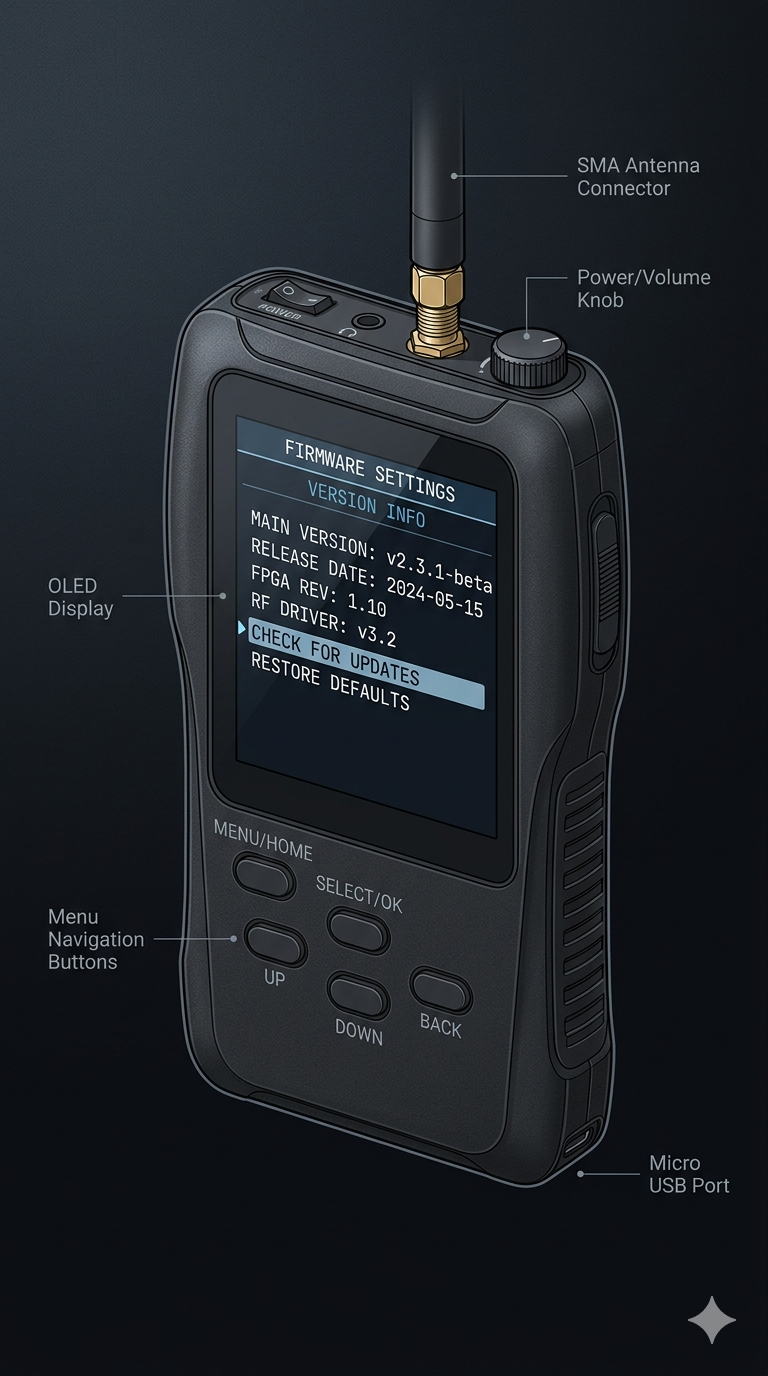
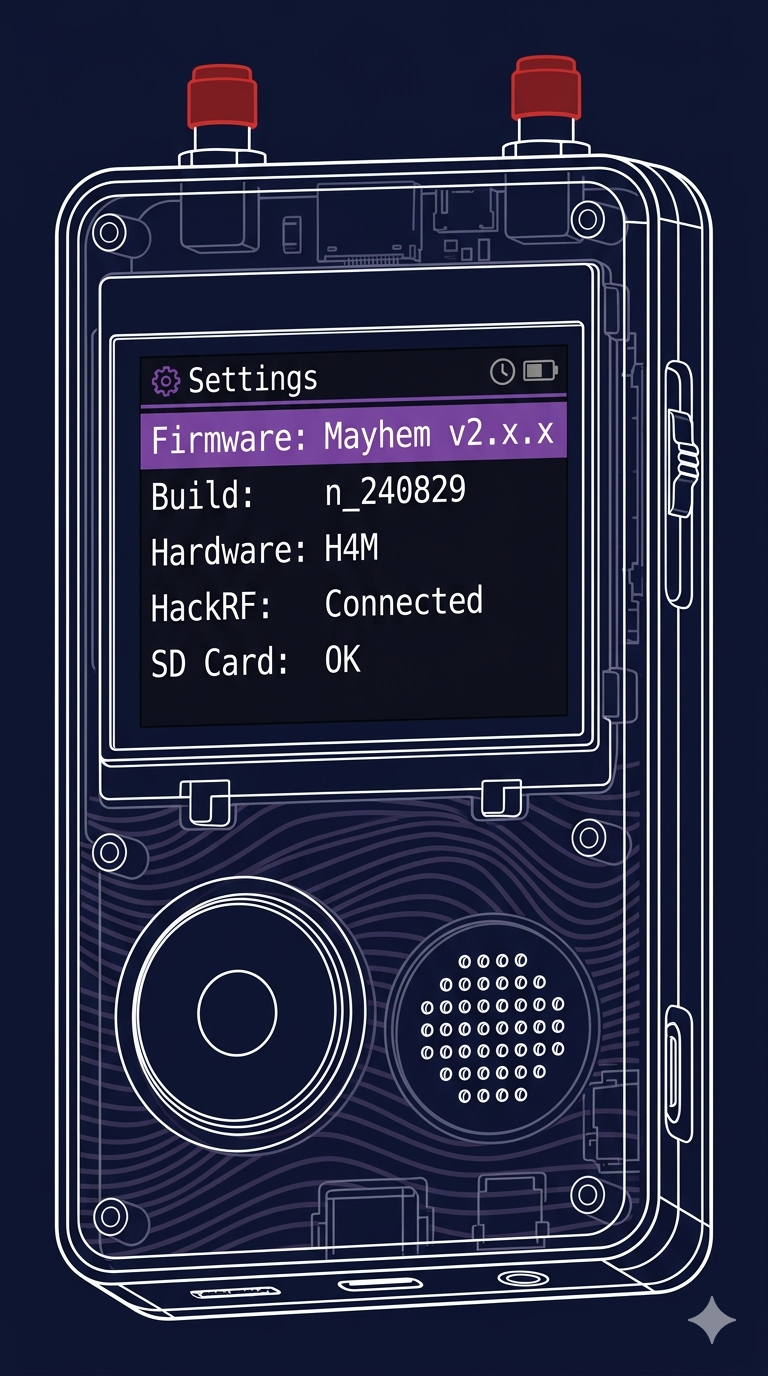
fix(h4m-manual): correct spec errors, replace wrong-hardware images, add Ch.9b visuals
- Fix screen size 2.8" -> 3.2" (lines 897, 938)
- Fix power mechanism: hold-button -> slider switch (9 occurrences)
- Fix front panel: directional buttons -> flat rotary click wheel
- Replace 3 wrong-hardware images: ch5_s2, ch6_s4, ch10_s0
- Add 3 new images to Ch.9b Capture & Replay (was only text-only chapter)
- 24/24 changes applied, 13/13 verification checks passed

diff --git a/static/manual/h4m/index.html b/static/manual/h4m/index.html
@@ -894,7 +894,7 @@
             <img src="./pic/ch1_s2_h4m_unit.png" alt="H4M unit front showing LCD screen, navigation buttons, and rotary encoder" loading="lazy" onerror="this.replaceWith(Object.assign(document.createElement('div'),{className:'img-fallback',textContent:this.alt}))">
             <figcaption>H4M unit inspected for screen and button integrity.</figcaption>
           </figure>
-          <p>Examine the H4M closely. Confirm the <strong>2.8" LCD screen</strong> is intact with no cracks, all <strong>navigation buttons</strong> are present and click cleanly, and the <strong>rotary encoder</strong> (the knob on the front) turns and clicks smoothly.</p>
+          <p>Examine the H4M closely. Confirm the <strong>3.2" LCD screen</strong> is intact with no cracks, and the <strong>rotary click wheel</strong> (flat wheel on the front) rotates and clicks smoothly.</p>
         </div>
       </div>
 
@@ -932,10 +932,10 @@
         <div class="step-content">
           <h3 class="step-title">Front Face — Screen &amp; Controls</h3>
           <figure class="step-visual" data-chapter="2" data-step="1" data-type="diagram">
-            <img src="./pic/ch2_s1_front_labeled.png" alt="H4M front panel labeled: LCD screen, directional buttons, rotary encoder, and Back button" loading="lazy" onerror="this.replaceWith(Object.assign(document.createElement('div'),{className:'img-fallback',textContent:this.alt}))">
-            <figcaption>H4M front panel: LCD screen, directional buttons, rotary encoder, and Back button.</figcaption>
+            <img src="./pic/ch2_s1_front_labeled.png" alt="H4M front panel labeled: 3.2-inch LCD screen, flat rotary click wheel, and Back button" loading="lazy" onerror="this.replaceWith(Object.assign(document.createElement('div'),{className:'img-fallback',textContent:this.alt}))">
+            <figcaption>H4M front panel: 3.2" LCD screen, flat rotary click wheel, and Back button.</figcaption>
           </figure>
-          <p>The front panel features a <strong>2.8" colour LCD screen</strong>, four <strong>directional buttons</strong> (up, down, left, right), a <strong>rotary encoder</strong> (push to confirm, rotate to scroll), and a dedicated <strong>Back button</strong> to return to the previous screen.</p>
+          <p>The front panel features a <strong>3.2" colour LCD screen</strong>, a flat <strong>rotary click wheel</strong> (rotate to scroll, push to confirm) — inspired by the iPod click wheel — and a dedicated <strong>Back button</strong> to return to the previous screen.</p>
           <div class="tip">💡 <strong>Tip:</strong> The rotary encoder is your primary navigation tool — rotate to move the cursor, push firmly to select the highlighted item.</div>
         </div>
       </div>
@@ -967,17 +967,17 @@
       <div class="step">
         <div class="step-badge">4</div>
         <div class="step-content">
-          <h3 class="step-title">Side — Power Button</h3>
+          <h3 class="step-title">Side — Power Slider</h3>
           <figure class="step-visual" data-chapter="2" data-step="4" data-type="diagram">
-            <img src="./pic/ch2_s4_power_slider.png" alt="H4M side power button — hold 2 seconds to power on or off" loading="lazy" onerror="this.replaceWith(Object.assign(document.createElement('div'),{className:'img-fallback',textContent:this.alt}))">
-            <figcaption>H4M side power button — hold 2 seconds to power on or off.</figcaption>
+            <img src="./pic/ch2_s4_power_slider.png" alt="H4M side power slider — slide UP to power on, DOWN to power off" loading="lazy" onerror="this.replaceWith(Object.assign(document.createElement('div'),{className:'img-fallback',textContent:this.alt}))">
+            <figcaption>H4M side power slider — slide UP to power on, DOWN to power off.</figcaption>
           </figure>
-          <p>The <strong>power button</strong> is on the side of the unit. Hold it for approximately <strong>2 seconds</strong> to power on, and hold again for 2 seconds to initiate a clean power-off from any screen.</p>
+          <p>The <strong>power slider</strong> is on the right side of the unit. Slide it <strong>UP</strong> to power on, and slide it <strong>DOWN</strong> to power off from any screen. The switch is a physical ON/OFF latch — no hold timing required.</p>
         </div>
       </div>
 
       <div class="chapter-summary">
-        <strong>✅ Chapter Summary:</strong> You now know every port, button, and control surface on the H4M — SMA port, microSD slot, USB-C, headphone jack, navigation buttons, encoder, and power button.
+        <strong>✅ Chapter Summary:</strong> You now know every port, button, and control surface on the H4M — SMA port, microSD slot, USB-C, headphone jack, rotary click wheel, and power slider.
       </div>
     </section>
 
@@ -1066,8 +1066,8 @@ SAMPLES/        ← Signal sample files</code></pre>
             <img src="./pic/ch3_s1_boot_screen.png" alt="Mayhem firmware boot logo and version number displayed on the H4M LCD" loading="lazy" onerror="this.replaceWith(Object.assign(document.createElement('div'),{className:'img-fallback',textContent:this.alt}))">
             <figcaption>Mayhem firmware boot logo and version number on LCD.</figcaption>
           </figure>
-          <p>Hold the power button for <strong>2 seconds</strong>. The Mayhem firmware boot logo appears on the LCD, followed by a brief splash screen showing the <strong>firmware version number</strong> (e.g., v2.x.x). Boot takes 3–5 seconds.</p>
-          <div class="tip">💡 <strong>Tip:</strong> If the screen stays dark after pressing the power button, try holding it for a full 3 seconds. If the battery is drained, charge via USB-C for at least 15 minutes before attempting boot.</div>
+          <p>Slide the <strong>power slider UP</strong>. The Mayhem firmware boot logo appears on the LCD, followed by a brief splash screen showing the <strong>firmware version number</strong> (e.g., v2.x.x). Boot takes 3–5 seconds.</p>
+          <div class="tip">💡 <strong>Tip:</strong> If the screen stays dark after sliding the power switch, slide it back to OFF, wait 2 seconds, then try again. If the battery is fully drained, charge via USB-C for at least 15 minutes before attempting boot.</div>
         </div>
       </div>
 
@@ -1195,10 +1195,10 @@ SAMPLES/        ← Signal sample files</code></pre>
         <div class="step-content">
           <h3 class="step-title">Tune Your Frequency</h3>
           <figure class="step-visual" data-chapter="5" data-step="2" data-type="uimock">
-            <img src="./pic/ch5_s2_tune_frequency.png" alt="FM app frequency display showing 100.0 MHz with signal strength bar filling on a strong station" loading="lazy" onerror="this.replaceWith(Object.assign(document.createElement('div'),{className:'img-fallback',textContent:this.alt}))">
-            <figcaption>FM app frequency display at 100.0 MHz with signal strength meter.</figcaption>
+            <img src="./pic/ch5_s2_tune_frequency.png" alt="FM Broadcast app on H4M showing frequency tuned to 100.7 MHz with signal strength bar at 70 percent" loading="lazy" onerror="this.replaceWith(Object.assign(document.createElement('div'),{className:'img-fallback',textContent:this.alt}))">
+            <figcaption>FM Broadcast app tuned to 100.7 MHz — signal strength bar indicates a strong station.</figcaption>
           </figure>
-          <p>The frequency defaults to <strong>100.0 MHz</strong>. Rotate the encoder to change frequency in <strong>0.1 MHz steps</strong>. FM broadcast stations operate between <strong>87.5 and 108.0 MHz</strong>. The signal strength bar fills when you land on a strong station — look for a sharp increase as you tune past a carrier.</p>
+          <p>The frequency defaults to <strong>100.0 MHz</strong>. Rotate the click wheel to change frequency in <strong>0.1 MHz steps</strong>. FM broadcast stations operate between <strong>87.5 and 108.0 MHz</strong>. The signal strength bar fills when you land on a strong station — look for a sharp increase as you tune past a carrier.</p>
           <div class="tip">💡 <strong>Tip:</strong> In urban areas there are often many stations; rotate the encoder quickly to scan through the band and stop when you hear clear audio.</div>
         </div>
       </div>
@@ -1286,8 +1286,8 @@ SAMPLES/        ← Signal sample files</code></pre>
         <div class="step-content">
           <h3 class="step-title">Aircraft Detail &amp; Map View</h3>
           <figure class="step-visual" data-chapter="6" data-step="4" data-type="uimock">
-            <img src="./pic/ch6_s4_aircraft_detail.png" alt="Individual aircraft detail view showing GPS coordinates, heading, squawk code, and map position" loading="lazy" onerror="this.replaceWith(Object.assign(document.createElement('div'),{className:'img-fallback',textContent:this.alt}))">
-            <figcaption>Individual aircraft detail view with GPS coordinates and map position.</figcaption>
+            <img src="./pic/ch6_s4_aircraft_detail.png" alt="H4M ADS-B aircraft detail screen showing callsign EZY2341, altitude 32000 ft, speed 465 kts, GPS coordinates" loading="lazy" onerror="this.replaceWith(Object.assign(document.createElement('div'),{className:'img-fallback',textContent:this.alt}))">
+            <figcaption>ADS-B aircraft detail view: callsign, altitude, speed, squawk code, and GPS coordinates.</figcaption>
           </figure>
           <p>Highlight an aircraft and push the encoder to view full details including <strong>GPS coordinates</strong>, heading, squawk code, and message count. If you have a <strong>microSD card with map tiles</strong> installed (see Ch.2b), a live map view shows aircraft positions plotted geographically.</p>
         </div>
@@ -1490,6 +1490,13 @@ SAMPLES/        ← Signal sample files</code></pre>
         <div class="step-badge">1</div>
         <div class="step-content">
           <h3 class="step-title">Record a Signal with Capture</h3>
+          <figure class="step-visual" data-chapter="9b" data-step="1" data-type="uimock">
+            <img src="./pic/ch9b_s1_capture_screen.png"
+                 alt="Mayhem Capture app screen on H4M showing centre frequency 433.92 MHz, sample rate 8 Msps, and red record button"
+                 loading="lazy"
+                 onerror="this.replaceWith(Object.assign(document.createElement('div'),{className:'img-fallback',textContent:this.alt}))">
+            <figcaption>Capture app: set frequency to 433.92 MHz, sample rate to 8 Msps, press encoder to record.</figcaption>
+          </figure>
           <p>From the main menu, navigate to <strong>Capture</strong>. Set the <strong>centre frequency</strong> to the signal you want to record (e.g., 433.92 MHz for ISM sensors). Set the <strong>sample rate</strong> — higher rates capture wider bandwidth but create larger files. Press the encoder to <strong>start recording</strong>; press again to stop. The file is saved to <code>CAPTURES/</code> on the SD card as a <code>.C16</code> file.</p>
           <div class="tip">💡 <strong>Tip:</strong> A 1-minute capture at 8 Msps generates approximately 1 GB of data. For short signals (remote controls, key fobs), capture for just 5–10 seconds.</div>
         </div>
@@ -1499,6 +1506,13 @@ SAMPLES/        ← Signal sample files</code></pre>
         <div class="step-badge">2</div>
         <div class="step-content">
           <h3 class="step-title">Play Back with Replay</h3>
+          <figure class="step-visual" data-chapter="9b" data-step="2" data-type="uimock">
+            <img src="./pic/ch9b_s2_replay_screen.png"
+                 alt="Mayhem Replay app file browser showing .C16 files in CAPTURES folder with transmit button active"
+                 loading="lazy"
+                 onerror="this.replaceWith(Object.assign(document.createElement('div'),{className:'img-fallback',textContent:this.alt}))">
+            <figcaption>Replay app: browse CAPTURES/ folder, select .C16 file, set matching frequency, press encoder to transmit.</figcaption>
+          </figure>
           <p>Navigate to <strong>Replay</strong> from the main menu. Browse the file list on the SD card and select your <code>.C16</code> capture file. Set the same <strong>frequency</strong> used during capture. Press the encoder to transmit — the H4M re-broadcasts the recorded IQ samples through the RF output at the original frequency and bandwidth.</p>
           <div class="warning" role="note">⚠ <strong>Warning:</strong> Replaying signals such as door openers, key fobs, or sensor data to gain unauthorised access to property or systems is illegal. Replay is intended for lab testing and signal research only. Always ensure you have permission before replaying any captured signal.</div>
         </div>
@@ -1508,6 +1522,13 @@ SAMPLES/        ← Signal sample files</code></pre>
         <div class="step-badge">3</div>
         <div class="step-content">
           <h3 class="step-title">Flipper Zero Compatibility (.sub Files)</h3>
+          <figure class="step-visual" data-chapter="9b" data-step="3" data-type="diagram">
+            <img src="./pic/ch9b_s3_flipper_sub.png"
+                 alt="Diagram showing .sub file workflow from Flipper Zero SD card to H4M Flipper TX app"
+                 loading="lazy"
+                 onerror="this.replaceWith(Object.assign(document.createElement('div'),{className:'img-fallback',textContent:this.alt}))">
+            <figcaption>Copy .sub files from Flipper Zero SD card to H4M SD card — open in Replay &gt; Flipper TX app.</figcaption>
+          </figure>
           <p>The <strong>Flipper TX</strong> app in Mayhem can replay <code>.sub</code> signal files from the Flipper Zero ecosystem. Copy <code>.sub</code> files to your SD card and open them via Replay. This allows sharing signal libraries between devices in your RF lab setup.</p>
         </div>
       </div>
@@ -1607,11 +1628,11 @@ SAMPLES/        ← Signal sample files</code></pre>
           <h3 class="step-title">Check Your Current Firmware Version</h3>
           <figure class="step-visual" data-chapter="10" data-step="0" data-type="uimock">
             <img src="./pic/ch10_s0_version_check.png"
-                 alt="Mayhem Settings screen showing firmware version string and build date"
+                 alt="H4M Settings screen on 3.2-inch LCD showing Mayhem firmware version, build date n_240829, and hardware revision H4M"
                  loading="lazy"
                  onerror="this.replaceWith(Object.assign(document.createElement('div'),
                    {className:'img-fallback', textContent:this.alt}))">
-            <figcaption>Settings screen shows firmware version string and build date.</figcaption>
+            <figcaption>H4M Settings screen: firmware version, build date, and hardware revision visible on the 3.2" LCD.</figcaption>
           </figure>
           <p>From the Mayhem home screen, navigate to <strong>Settings</strong>. The firmware version string and build date are shown at the top of the screen. The build date format is <code>YYYYMMDD</code> — for example, <code>n_240829</code> means August 29, 2024.</p>
           <p>Compare your version with the latest release at <a href="https://github.com/portapack-mayhem/mayhem-firmware/releases" target="_blank" rel="noopener">github.com/portapack-mayhem/mayhem-firmware/releases</a>. If you are already on the latest version, you can skip the remaining steps.</p>
@@ -1650,7 +1671,7 @@ SAMPLES/        ← Signal sample files</code></pre>
             <img src="./pic/ch10_s3_power_off.png" alt="H4M powered off cleanly with screen completely dark before entering DFU mode" loading="lazy" onerror="this.replaceWith(Object.assign(document.createElement('div'),{className:'img-fallback',textContent:this.alt}))">
             <figcaption>H4M powered off cleanly before entering DFU mode.</figcaption>
           </figure>
-          <p>Hold the power button for 2 seconds to perform a clean shutdown. Wait until the screen goes completely dark before proceeding. Do <strong>not</strong> attempt to enter DFU mode while the device is still running.</p>
+          <p>Slide the <strong>power slider to OFF</strong> to perform a clean shutdown. Wait until the screen goes completely dark before proceeding. Do <strong>not</strong> attempt to enter DFU mode while the device is still running.</p>
         </div>
       </div>
 
@@ -1708,7 +1729,7 @@ hackrf_update -f portapack-h1_h2-mayhem.bin</code></pre>
             <img src="./pic/ch11_s1_decision_tree.png" alt="Troubleshooting decision tree starting from device won't power on leading to charge for 1 hour" loading="lazy" onerror="this.replaceWith(Object.assign(document.createElement('div'),{className:'img-fallback',textContent:this.alt}))">
             <figcaption>Troubleshooting decision tree: device won't power on → charge for 1 hour.</figcaption>
           </figure>
-          <p>Connect the H4M via USB-C and charge for at least <strong>1 hour</strong> using a known-good charger (5V/1A or greater). Then try holding the power button for a full 3 seconds. If the device still doesn't respond, try a <strong>different USB-C cable</strong> — many cables are charge-only with no data lines, but this can also affect charging behaviour on some units.</p>
+          <p>Connect the H4M via USB-C and charge for at least <strong>1 hour</strong> using a known-good charger (5V/1A or greater). Then try sliding the power switch to OFF and back to ON. If the device still doesn't respond, try a <strong>different USB-C cable</strong> — many cables are charge-only with no data lines, but this can also affect charging behaviour on some units.</p>
         </div>
       </div>
 
@@ -1720,7 +1741,7 @@ hackrf_update -f portapack-h1_h2-mayhem.bin</code></pre>
             <img src="./pic/ch11_s2_unresponsive.png" alt="H4M LCD screen on but buttons producing no response — hold encoder 3 seconds for soft reset" loading="lazy" onerror="this.replaceWith(Object.assign(document.createElement('div'),{className:'img-fallback',textContent:this.alt}))">
             <figcaption>H4M LCD on but unresponsive — hold encoder 3 seconds for soft reset.</figcaption>
           </figure>
-          <p>If the LCD is lit but buttons and encoder produce no response, try a <strong>soft reset</strong>: hold the rotary encoder button down for 3 seconds. If that fails, perform a <strong>hard reset</strong>: hold the power button for 10 full seconds until the device powers off, then power on normally.</p>
+          <p>If the LCD is lit but buttons and encoder produce no response, try a <strong>soft reset</strong>: hold the rotary encoder button down for 3 seconds. If that fails, perform a <strong>hard reset</strong>: slide the power switch to OFF, wait 5 seconds, then slide back to ON.</p>
           <div class="tip">💡 <strong>Tip:</strong> A corrupt microSD card can sometimes cause the firmware to hang at startup. Try removing the microSD card and booting without it.</div>
         </div>
       </div>
